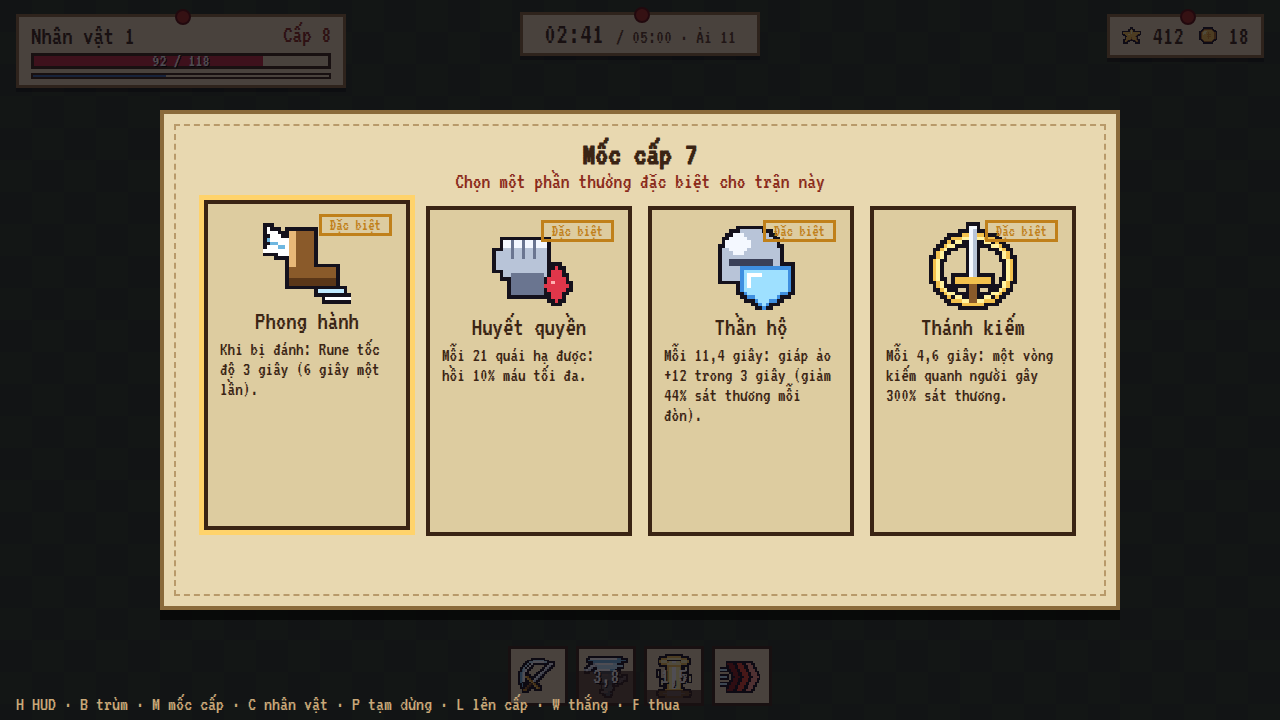
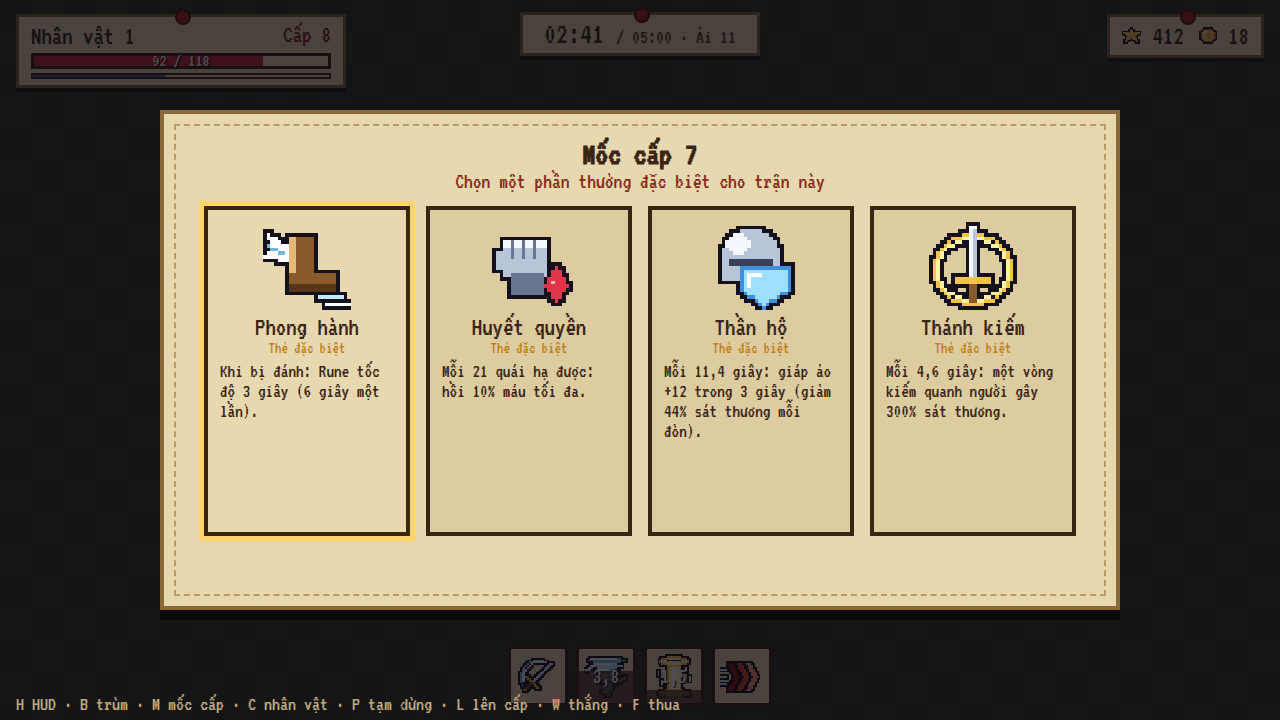
fix(design-web): the milestone card's kind sits under its name
The "Đặc biệt" corner stamp covered the icon; it is now a line under the
name ("Thẻ đặc biệt", like the game). The chosen card no longer lifts.

Verified: headless shot shots/hud-milestone.png viewed

diff --git a/design-web/games/bach-ai/screen-hud-journal.html b/design-web/games/bach-ai/screen-hud-journal.html
@@ -32,10 +32,10 @@
 .sheet::after { content: ""; position: absolute; inset: 10px; border: 2px dashed #b89a6a; pointer-events: none; }
 .rewards { display: grid; grid-template-columns: repeat(4, 1fr); gap: 16px; margin-top: 14px; }
 .rw { height: 330px; border: 4px solid var(--ink); background: #ddcca0; padding: 12px; position: relative; }
-.rw.on { outline: 5px solid var(--gold); transform: translateY(-6px); }
+.rw.on { outline: 5px solid var(--gold); background: #e8d8b0; }
 .rw h3 { font-weight: normal; font-size: 26px; text-align: center; margin-top: 4px; }
 .rw p { font-size: 19px; line-height: 1.05; margin-top: 6px; }
-.rw .stamp { position: absolute; top: 8px; right: 8px; font-size: 16px; color: #c0801a; }
+.rw .kind { font-size: 16px; color: #c0801a; text-align: center; }   /* under the name, like the game (a corner stamp covered the icon) */
 .cols { display: flex; gap: 36px; margin-top: 8px; } .cols > div { flex: 1; }
 .skrow { display: flex; gap: 10px; align-items: center; font-size: 22px; border-bottom: 2px dotted var(--dots); padding: 2px 0; }
 /* character-full: the game's whole sheet (05c-character) as three journal columns */
@@ -98,8 +98,8 @@ addEventListener("keydown", (ev) => {
     Journal.list(() => R.length, (sel) => {
       $("over").innerHTML = `<div class="dim"></div><div class="sheet" style="top:110px;height:500px"><h1 style="text-align:center">Mốc cấp 7</h1>
         <div class="sub" style="text-align:center">Chọn một phần thưởng đặc biệt cho trận này</div>
-        <div class="rewards">${R.map((u, i) => `<div class="rw ${i === sel ? "on" : ""}"><span class="stamp">Đặc biệt</span>
-          <div style="width:88px;margin:0 auto">${icon(u.id, 88)}</div><h3>${u.name}</h3><p>${u.desc}</p></div>`).join("")}</div></div>`;
+        <div class="rewards">${R.map((u, i) => `<div class="rw ${i === sel ? "on" : ""}">
+          <div style="width:88px;margin:0 auto">${icon(u.id, 88)}</div><h3>${u.name}</h3><div class="kind">Thẻ đặc biệt</div><p>${u.desc}</p></div>`).join("")}</div></div>`;
     }, () => location.search = "?view=hud", true).set(0);
   } else if (view === "character-full") {   // the game's character sheet (05c-character), all of it, on one journal sheet
     const ST = [["Máu tối đa", "128", "gốc 100 · Tầm với +20 · giáp +8"], ["Sát thương", "28", "gốc 20 · Mài kiếm +30% · Ngọc sức mạnh +35% · Ăn mòn −15%"],
